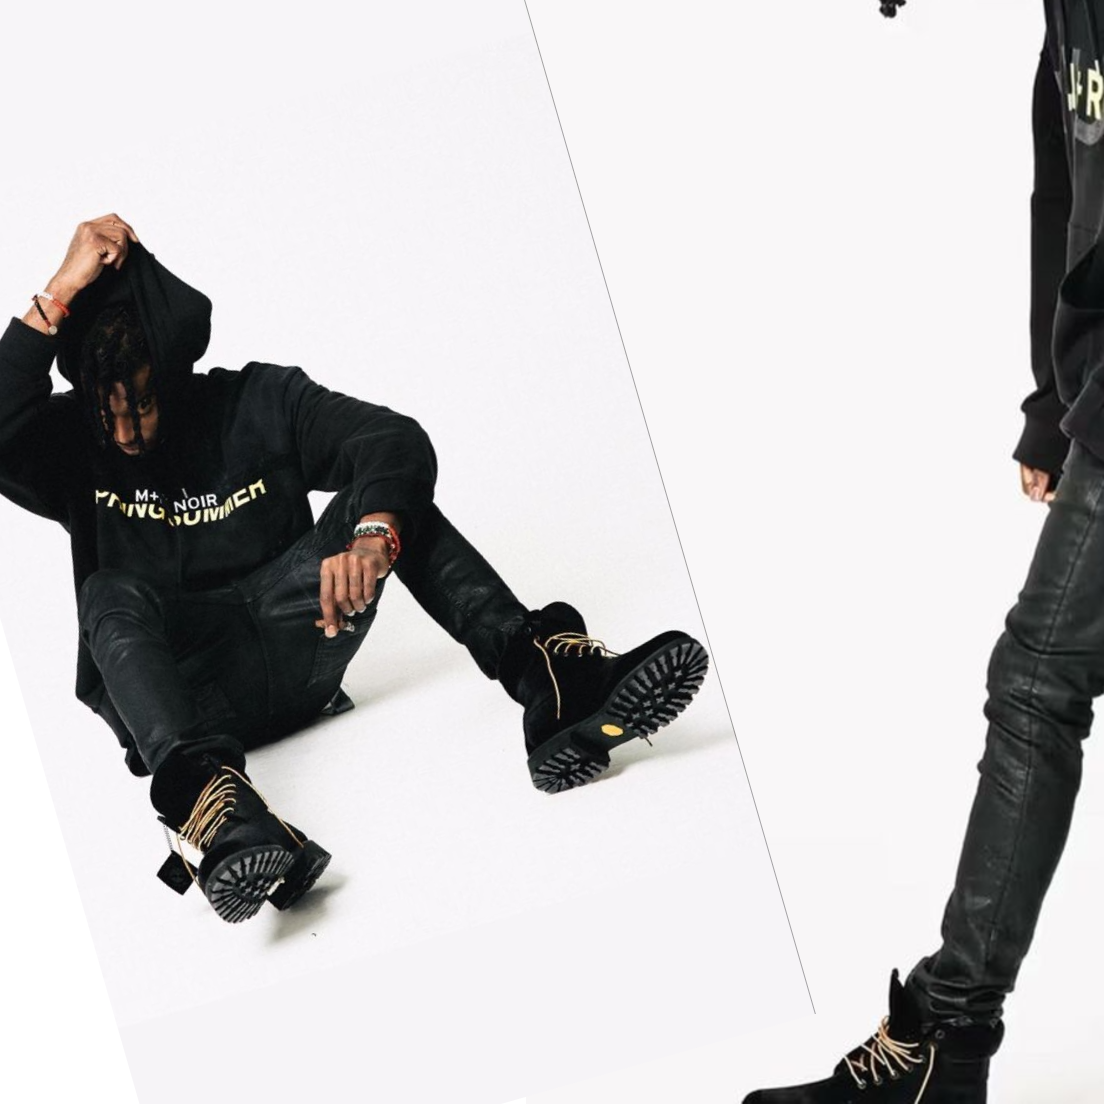
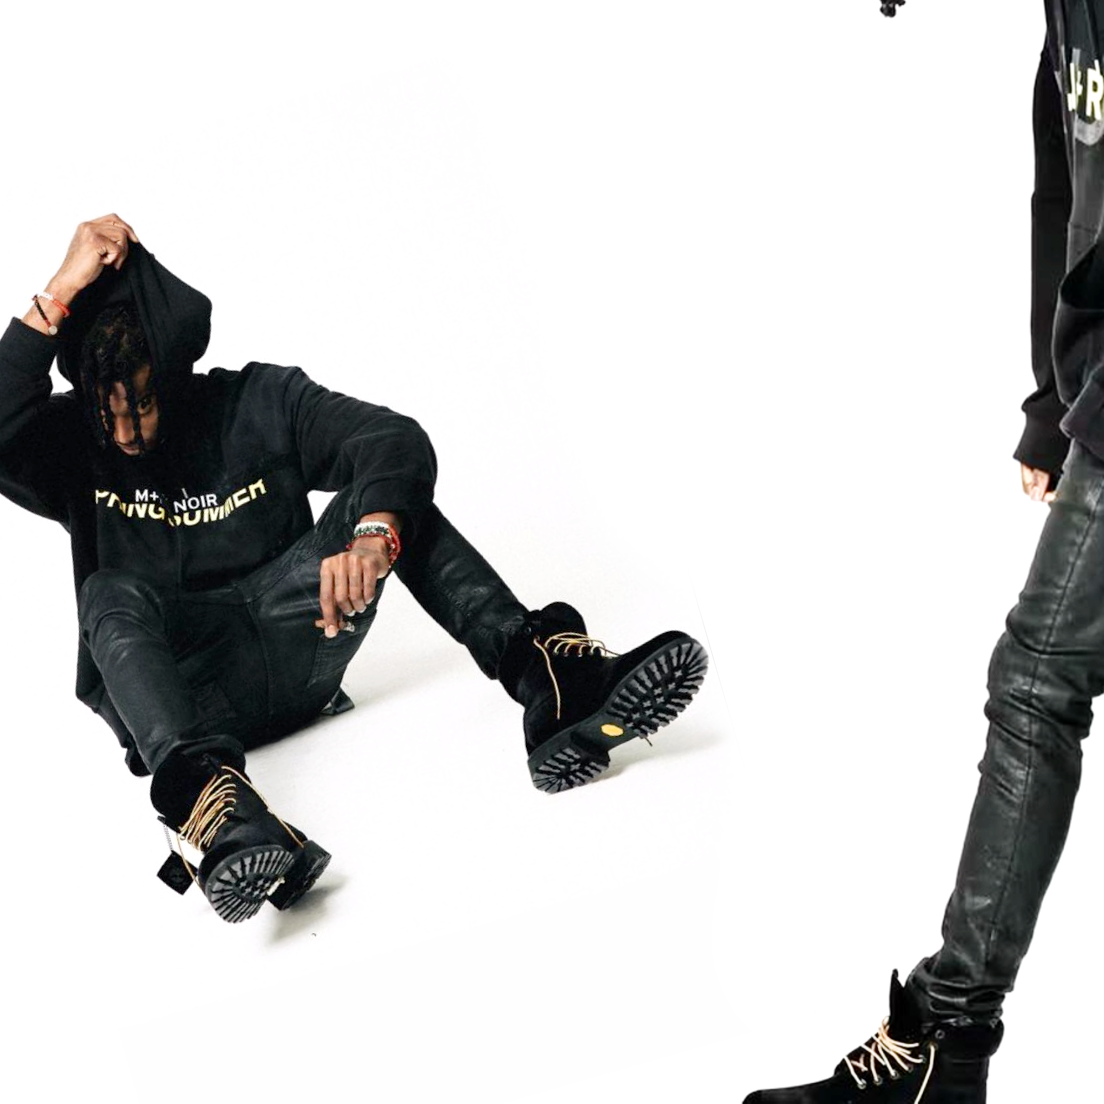
module 5 push 5 pre D-Day

diff --git a/Kuro.css b/Kuro.css
@@ -307,24 +307,33 @@ main {
     transition: opacity 0.5s ease;
 }
 .Window video:hover {
-    opacity: 0.8;
+    opacity: 0.6;
     transition: opacity 0.25s ease;
     cursor: pointer;
 }
 
-.Window-title {
+.Window-title-1 {
     display:flex;
     font-size: 24px;
     color: rgb(0, 0, 0);
     padding: 18px;
 }
 
-.Window-title:hover {
-    gap: 1.25rem;
-    font-size: 12px;
-    letter-spacing: 2px;
-    word-spacing: 2px;
+
+.Window-title-2 {
+    background: linear-gradient(rgb(100, 100, 100), rgb(255, 255, 255));
+    display:flex;
+    font-size: 24px;
+    color: rgb(255, 255, 255);
+    padding: 18px;
+    height: 80px;
 }
+
+
+
+
+
+
 
 .glass {
     position: relative;
@@ -359,8 +368,8 @@ main {
 
 .Window-2 {
     width: 100%;
-    height:600px;
-    background-color: rgb(133, 133, 133);
+    height:800px;
+    background: linear-gradient(to bottom, white, rgb(133, 133, 133), rgb(100, 100, 100));
     margin:0;
 }
 
@@ -388,6 +397,13 @@ main {
     display: block;
 }
 
+.slideshow {
+    width: 300px;          /* set size */
+    height: 300px;
+    overflow: hidden;
+    position: relative;
+}
+
 .slideshow-track {
     display: flex;
     height: 100%;
@@ -398,12 +414,13 @@ main {
     flex: 0 0 100%;
     width: 100%;
     height: 100%;
-    /* Show the full image without cropping (use contain for 1:1 images)
-       and center it inside the slide */
-    object-fit: contain;
+    object-fit: contain;   /* use cover if you want crop */
     object-position: center;
     background-color: #fff;
 }
+
+
+ 
 
 
 
@@ -413,6 +430,16 @@ main {
     height: 100%;
     background-color: rgb(201, 112, 112);
     display: inline-block;
+}
+
+/* Make images in the twin containers and Arrival twin fill properly */
+.twin-2 img,
+.A-Twin-2 img {
+    width: 100%;
+    height: 100%;
+    object-fit: cover;
+    object-position: center;
+    display: block;
 }
 
 @media (max-width:768px) {
@@ -438,7 +465,7 @@ main {
     width: 100%;
     min-height: 480px;
     height: auto;
-    background-color: rgb(255, 255, 255);
+    background: linear-gradient(rgb(255, 255, 255), rgb(0, 0, 0));
     display: flex;
     justify-content: space-evenly;
     align-items: center;
@@ -469,6 +496,7 @@ main {
     box-sizing: border-box;
     gap: 12px;
     padding: 10px;
+    color: white;
 } 
 
 .parent-2:hover {
@@ -478,16 +506,42 @@ main {
 
 .child-2 {
     width: 100%;
-    aspect-ratio: 1 / 1;             
-    background-color: transparent;
-    margin-bottom: 10px;
-    position: relative; /* contain absolutely-positioned or overflowing images */
-    overflow: hidden;   /* hide any overflow when using object-fit */
+    aspect-ratio: 1 / 1;
+    position: relative;
+    overflow: hidden;
     display: flex;
     justify-content: center;
     align-items: center;
-    border-radius: 2px;
-    transition: ease-out 0.3s;
+
+    background: linear-gradient(rgb(239, 239, 239), rgb(56, 56, 56));
+    border-radius: 4px;
+    cursor: pointer;
+}
+
+/* gradient layer */
+.child-2::before {
+    content: "";
+    position: absolute;
+    inset: 0;
+    background: linear-gradient(
+        45deg,
+        rgb(180, 180, 180),
+        rgb(30, 30, 30)
+    );
+    opacity: 0;
+    transition: opacity 0.3s ease-out;
+    z-index: 0;
+}
+
+/* hover state */
+.child-2:hover::before {
+    opacity: 1;
+}
+
+/* keep content above gradient */
+.child-2 > * {
+    position: relative;
+    z-index: 1;
 }
 
 /* Ensure any img placed inside the square fits and keeps its aspect ratio */
@@ -505,10 +559,6 @@ main {
     background: #fff; /* visual padding when using contain */
 }
 
-.child-2:hover {
-    background-color: rgb(222, 143, 143);
-    cursor: pointer;
-}
 .scroll-btn {
     display: none;                  
     position: absolute;            
@@ -565,9 +615,9 @@ main {
 }
 
 .arrival-content {
+    background: linear-gradient(rgb(129, 129, 129), rgb(255, 255, 255));
     width: 100%;
     height: 800px;                  
-    background-color: rgb(208, 214, 165);
     display: flex;
     border-top: 20px solid rgb(129, 129, 129);
 }
@@ -575,7 +625,7 @@ main {
 .A-Twin-1 {
     width: 50%;
     height: 100%;
-    background-color: rgb(255, 255, 255);
+    background: linear-gradient(rgb(129, 129, 129), rgb(255, 255, 255));
 
     display: grid;
     grid-template-columns: repeat(2, 1fr); /* 2 columns */
@@ -590,6 +640,7 @@ main {
     overflow: hidden;
     position: relative; /* for overlay positioning */
     display: block;
+    border-radius: 4px;
 }
 
 .A-Child img {
@@ -645,10 +696,35 @@ main {
     width: 50%;
     height: 100%;
     background-color: rgb(79, 141, 169);
-
+    display: flex;
     overflow: hidden;
-
 }
+
+.slideshow {
+    width: 100%;
+    height: 100%;
+    overflow: hidden;
+    display: block;
+}
+
+.slideshow-track {
+    display: flex;
+    width: 100%;
+    height: 100%;
+    transition: transform 0.6s ease-in-out;
+    align-items: stretch;
+    flex-wrap: nowrap; /* prevent slides wrapping */
+}
+
+.slide {
+    flex: 0 0 100%; /* each slide takes full container width */
+    width: 100%;
+    height: 100%;
+    display: block;
+    object-fit: cover;   /* ensure image fills slide */
+    object-position: center;
+}
+
 
 @media (max-width: 768px) {
     .arrival-content {
@@ -738,10 +814,10 @@ main {
 footer {
     min-height: 80px;
     width: 100%;
-    background: linear-gradient(rgb(255, 255, 255), rgb(126, 126, 126));
+    background-color: #000000;
     text-align: center;
     padding: 20px 0;
-    margin-top: 40px;
+    
     font-size: 12px;
     color: #383838;
     position: relative;

diff --git a/index.html b/index.html
@@ -34,7 +34,7 @@
         </section>
 
      <a href="Arrival.html">
-        <div class="Window-title">
+        <div class="Window-title-1">
             <h1>CURRENT ARRIVALS</h1>
             <i class="uil uil-angle-right arrow-right"></i>
         </div>
@@ -44,24 +44,28 @@
             <div class="parent">
                 <div class="twin-1">
 
-                    <div class="slideshow-track">
-                        <img src="/clothing/Carti_-_Arrivals_-_Black_Timbs_2-removebg-preview.png" class="slide">
-                        <img src="/clothing/black lost tapes-Photoroom.png" class="slide">
-                        <img src="/clothing/striped jacket.png" class="slide">
-                       
+                    <div class="slideshow">
+                        <div class="slideshow-track">
+                            <img src="/clothing/Carti_-_Arrivals_-_Black_Timbs_2-removebg-preview.png" class="slide">
+                            <img src="/clothing/Dior_07_Luster_Pantss-removebg-preview 2.png" class="slide">
+                            <img src="/clothing/M+RC_NOIR-removebg-preview 2.png" class="slide">
+                        </div>
                     </div>
+
 
                 </div>
 
                 <div class="twin-2">
-
+                        <img src="/Images/Carti%20Carti%20Arrival%20-.png" alt="Playboi Carti photoshoot">
                 </div>
             </div>
         </section>
      </a>
 
-        <div class="Window-title">
-            <h1>COLLECTION</h1>
+     
+
+        <div class="Window-title-2">
+            <h1 style="color:white">COLLECTION</h1>
             <i class="uil uil-angle-right arrow-right"></i>
         </div>
 
@@ -83,11 +87,11 @@
             <a href="Jackets.html">JACKETS</a>
         </div>
         <div class="parent-2">
-            <div class="child-2"></div>
+            <div class="child-2"><img src="/clothing/Ed_Hardy_hoodie-removebg-preview.png"></div>
             <a href="TOPS.html">TOPS</a>
         </div>
         <div class="parent-2">
-            <div class="child-2"></div>
+            <div class="child-2"><img src="/clothing/Levi's 527 slim bootcut.png"></div>
             <a href="PANTS.html">PANTS</a>
         </div>
         <div class="parent-2">

diff --git a/Arrival.html b/Arrival.html
@@ -42,18 +42,18 @@
                     </div>
 
                     <div class="A-Child">
-                        <img src="/clothing/black lost tapes-Photoroom.png" alt="Black Lost Tape BALENCIAGA Jeans">
+                        <img src="/clothing/Dior_07_Luster_Pantss-removebg-preview 2.png" alt="Black Lost Tape BALENCIAGA Jeans">
                         <div class="info-overlay">
-                            <h1>BLACK TIMBERLAND BOOTS</h1>
-                            <p>Price: $250</p>
+                            <h1>DIOR HOMME AW07 LUSTER PANTS</h1>
+                            <p>Price: $650</p>
                         </div>
                     </div>
 
                     <div class="A-Child">
-                        <img src="/clothing/striped jacket.png" alt="Striped Jacket">
+                        <img src="/clothing/M+RC_NOIR-removebg-preview 2.png" alt="Striped Jacket">
                         <div class="info-overlay">
-                            <h1>STRIPED JACKET</h1>
-                            <p>Price: $250</p>
+                            <h1>M+RC NOIR HOODIE SS18</h1>
+                            <p>Price: $150</p>
                         </div>
                     </div>
 
@@ -65,12 +65,8 @@
 
 
                 <div class="A-Twin-2">
-                    <div class="B-Child">
-                        <img src="/Images/Carti Carti Arrival -.png" alt="PLayboi Carti photoshoot">
-                    </div>
-
-
-                </div>
+                    <img src="/Images/Carti%20Carti%20Arrival%20-%202.png" alt="Playboi Carti photoshoot">
+                </div> 
             
 
 

diff --git a/Kuro.js b/Kuro.js
@@ -33,13 +33,14 @@ document.addEventListener("DOMContentLoaded", () => {
         });
     }
 
+    const track = document.querySelector(".slideshow-track");
+    const slides = document.querySelectorAll(".slide");
     let index = 0;
-        const track = document.querySelector(".slideshow-track");
-        const slides = document.querySelectorAll(".slide");
 
-        setInterval(() => {
+    setInterval(() => {
         index = (index + 1) % slides.length;
         track.style.transform = `translateX(-${index * 100}%)`;
         }, 3000);
+
 
 });

diff --git a/Women.html b/Women.html
@@ -13,12 +13,13 @@
 
     <header>
         
+        
     </header>
 
 
 
     <main>
-        
+        <h1 style="margin-left: 100px;">WOMENS SECTION - COMING SOON!!!!!!</h1>
       
     </main>
 
